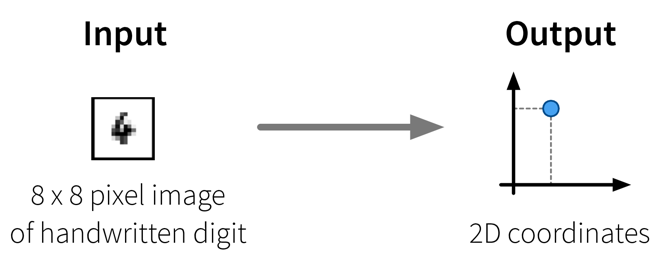
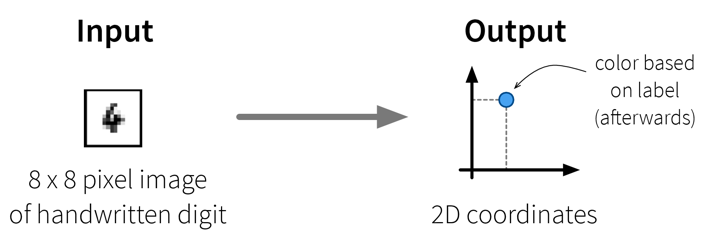
update pca figs

diff --git a/mlbook/_ul_dimensionality_reduction.html b/mlbook/_ul_dimensionality_reduction.html
@@ -815,7 +815,7 @@ table.CodeRay td.code{padding:0 0 0 .75em}
 <div class="openblock text-center">
 <div class="content">
 <div class="paragraph">
-<p><span class="image"><img src="../images/03_unsupervised/dimred_problem.png" alt="image" width="440"></span></p>
+<p><span class="image"><img src="../images/03_unsupervised/dimred_problem.png" alt="image" width="470"></span></p>
 </div>
 <div class="paragraph">
 <p><span class="image"><img src="../images/03_unsupervised/dimred_pca.png" alt="image" width="420"></span>
